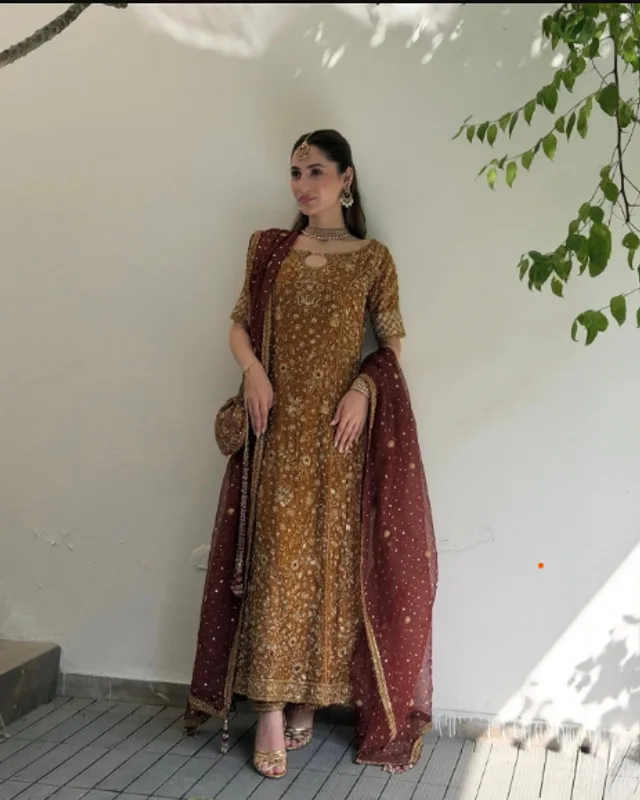
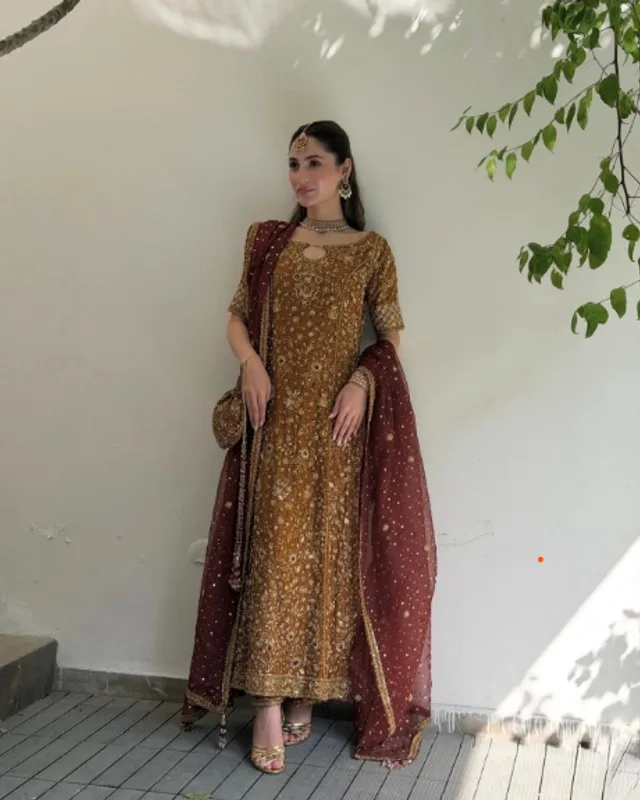
fixed section path

diff --git a/src/app/page.tsx b/src/app/page.tsx
@@ -67,28 +67,6 @@ export default function HomePage() {
       {/* Shop by Occasion */}
       <OccasionCarousel />
 
-      {/* Best Sellers */}
-      <Reveal>
-        <section className="section best-sellers-section">
-          <div className="container">
-            <div className="section-header">
-              <h2 className="section-title">Best Sellers</h2>
-              <p className="section-subtitle">Our most loved pieces, handpicked for you</p>
-            </div>
-            <div className="products-grid">
-              {bestSellers.map((product) => (
-                <ProductCard key={product.slug} product={product} />
-              ))}
-            </div>
-            <div className="section-cta">
-              <Link href="/shop" className="btn btn-outline">
-                View All Best Sellers
-              </Link>
-            </div>
-          </div>
-        </section>
-      </Reveal>
-
       {/* New Arrivals */}
       <Reveal>
         <section className="section new-arrivals-section">
@@ -105,6 +83,28 @@ export default function HomePage() {
             <div className="section-cta">
               <Link href="/shop" className="btn btn-outline">
                 View All New Arrivals
+              </Link>
+            </div>
+          </div>
+        </section>
+      </Reveal>
+
+      {/* Best Sellers */}
+      <Reveal>
+        <section className="section best-sellers-section">
+          <div className="container">
+            <div className="section-header">
+              <h2 className="section-title">Best Sellers</h2>
+              <p className="section-subtitle">Our most loved pieces, handpicked for you</p>
+            </div>
+            <div className="products-grid">
+              {bestSellers.map((product) => (
+                <ProductCard key={product.slug} product={product} />
+              ))}
+            </div>
+            <div className="section-cta">
+              <Link href="/shop" className="btn btn-outline">
+                View All Best Sellers
               </Link>
             </div>
           </div>

diff --git a/src/app/globals.css b/src/app/globals.css
@@ -1267,7 +1267,7 @@ main {
   }
 }
 
-/* Phones: swipe only, and a card and a half in view. */
+/* Phones: a card and a half in view, with compact arrow controls. */
 @media (max-width: 767px) {
   .occasion-tile {
     flex-basis: 62vw;
@@ -1275,7 +1275,21 @@ main {
   }
 
   .occasion-carousel-arrow {
-    display: none;
+    width: 32px;
+    height: 32px;
+    box-shadow: 0 3px 10px rgba(26, 26, 26, 0.18);
+  }
+
+  .occasion-carousel-arrow svg {
+    width: 16px;
+    height: 16px;
+  }
+
+  /* Keep the 44px tap target around the smaller visible circle. */
+  .occasion-carousel-arrow::after {
+    content: "";
+    position: absolute;
+    inset: -6px;
   }
 
   .occasion-tile-content {
